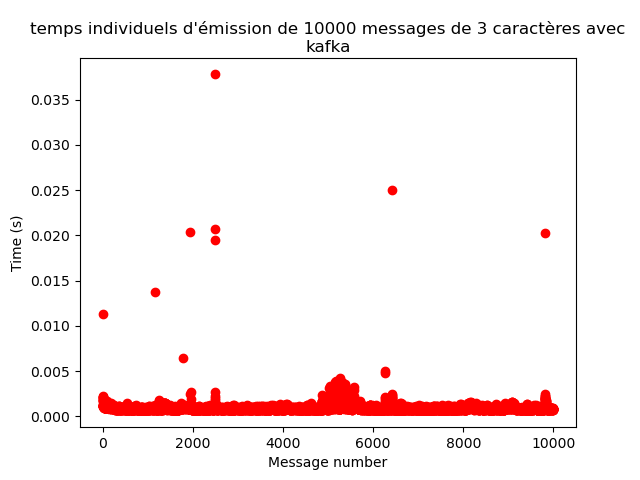
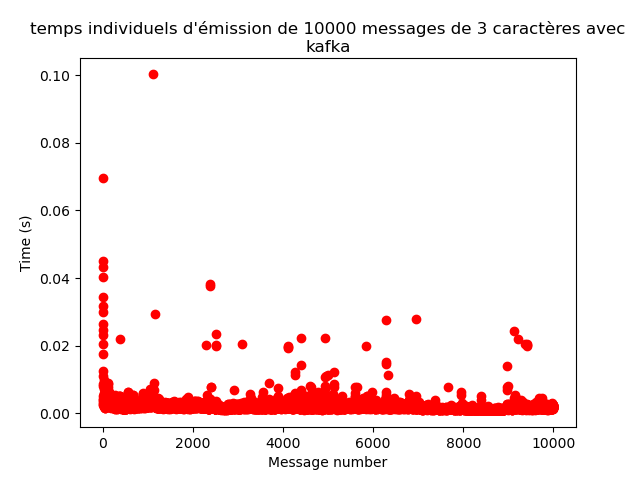
help

diff --git a/main_send.py b/main_send.py
@@ -45,7 +45,7 @@ def main_send(protocol, message_count, port,length, queue, logger, traitement):
 
     message = queue.get()
     if message == "RECEIVER_READY":
-        sleep(1)
+        sleep(2)
 
         #calcul des résulat
         length_of_string = int(length)
